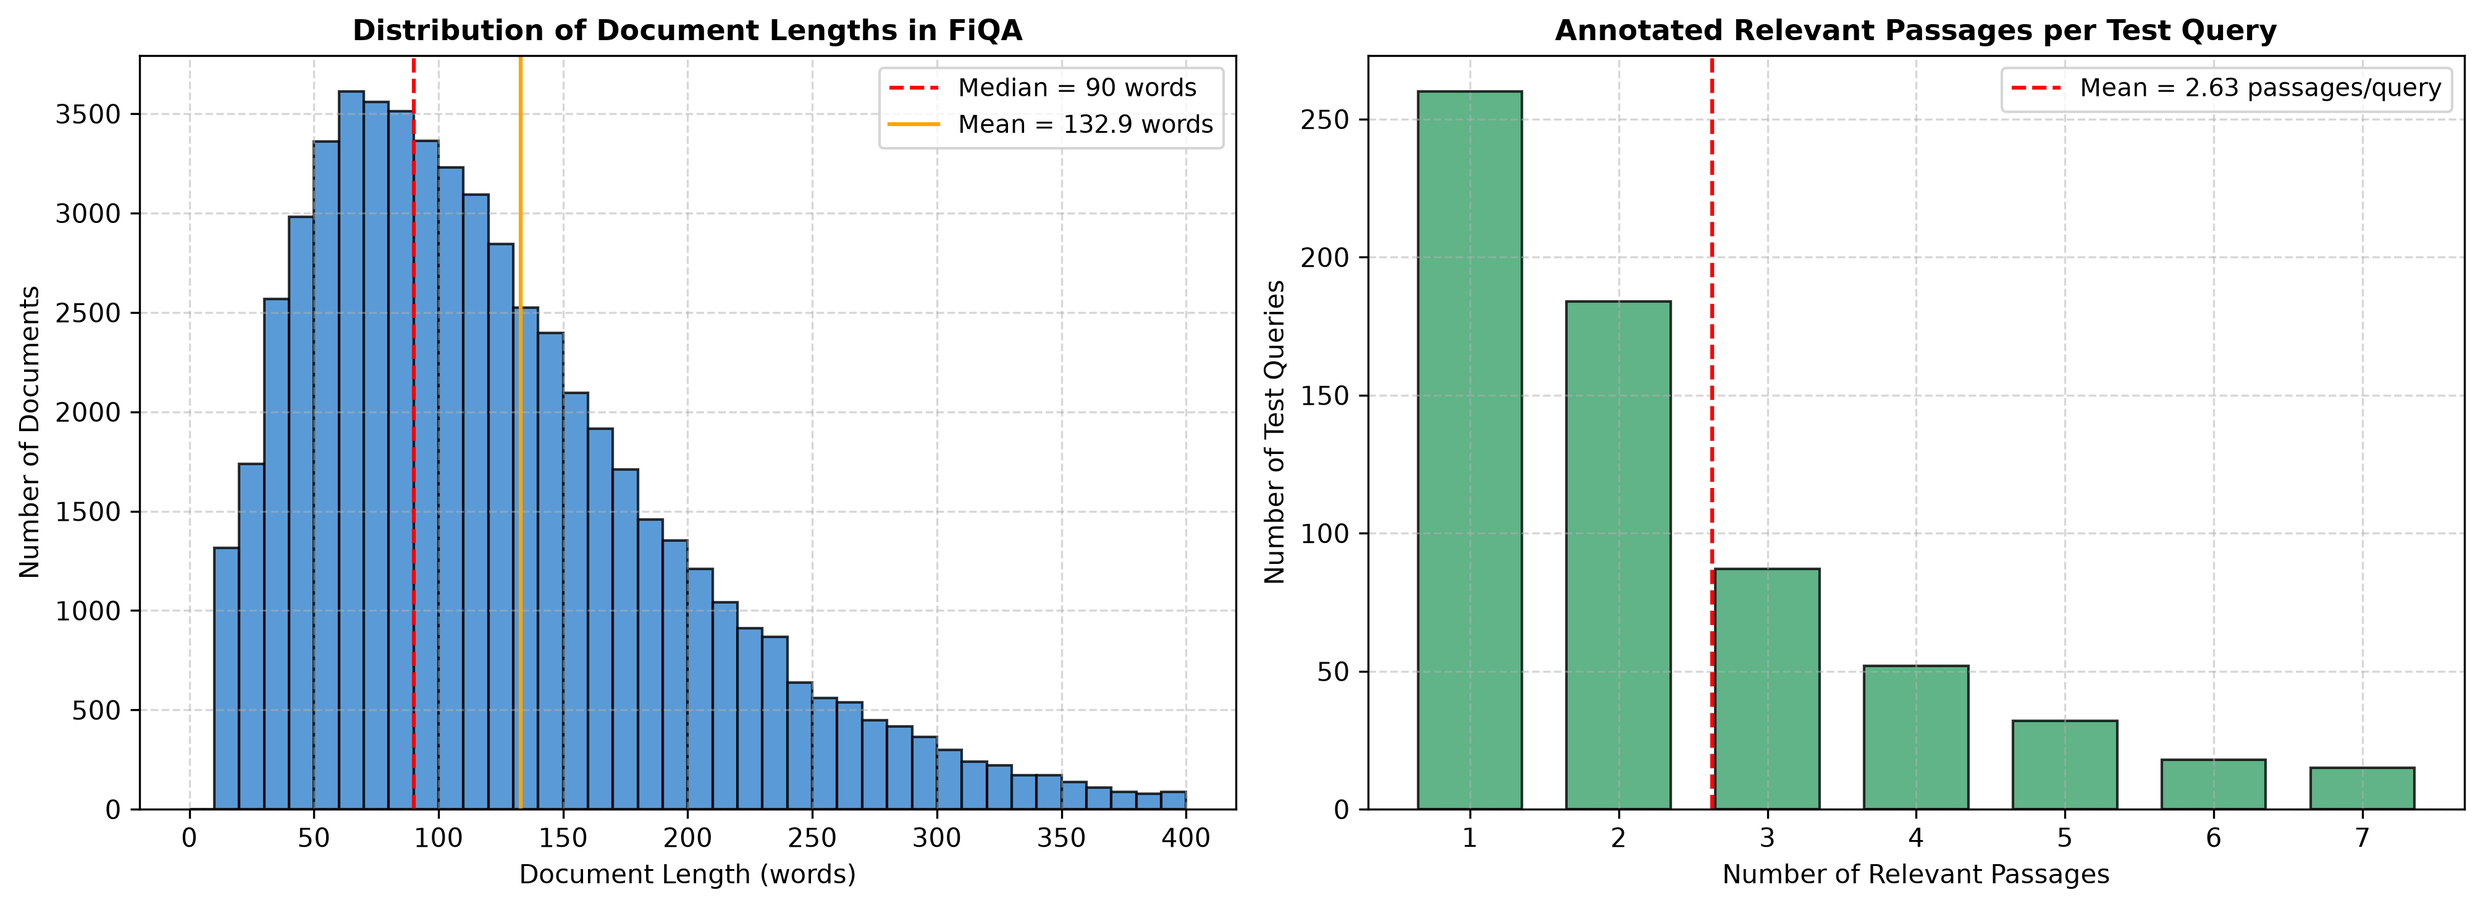
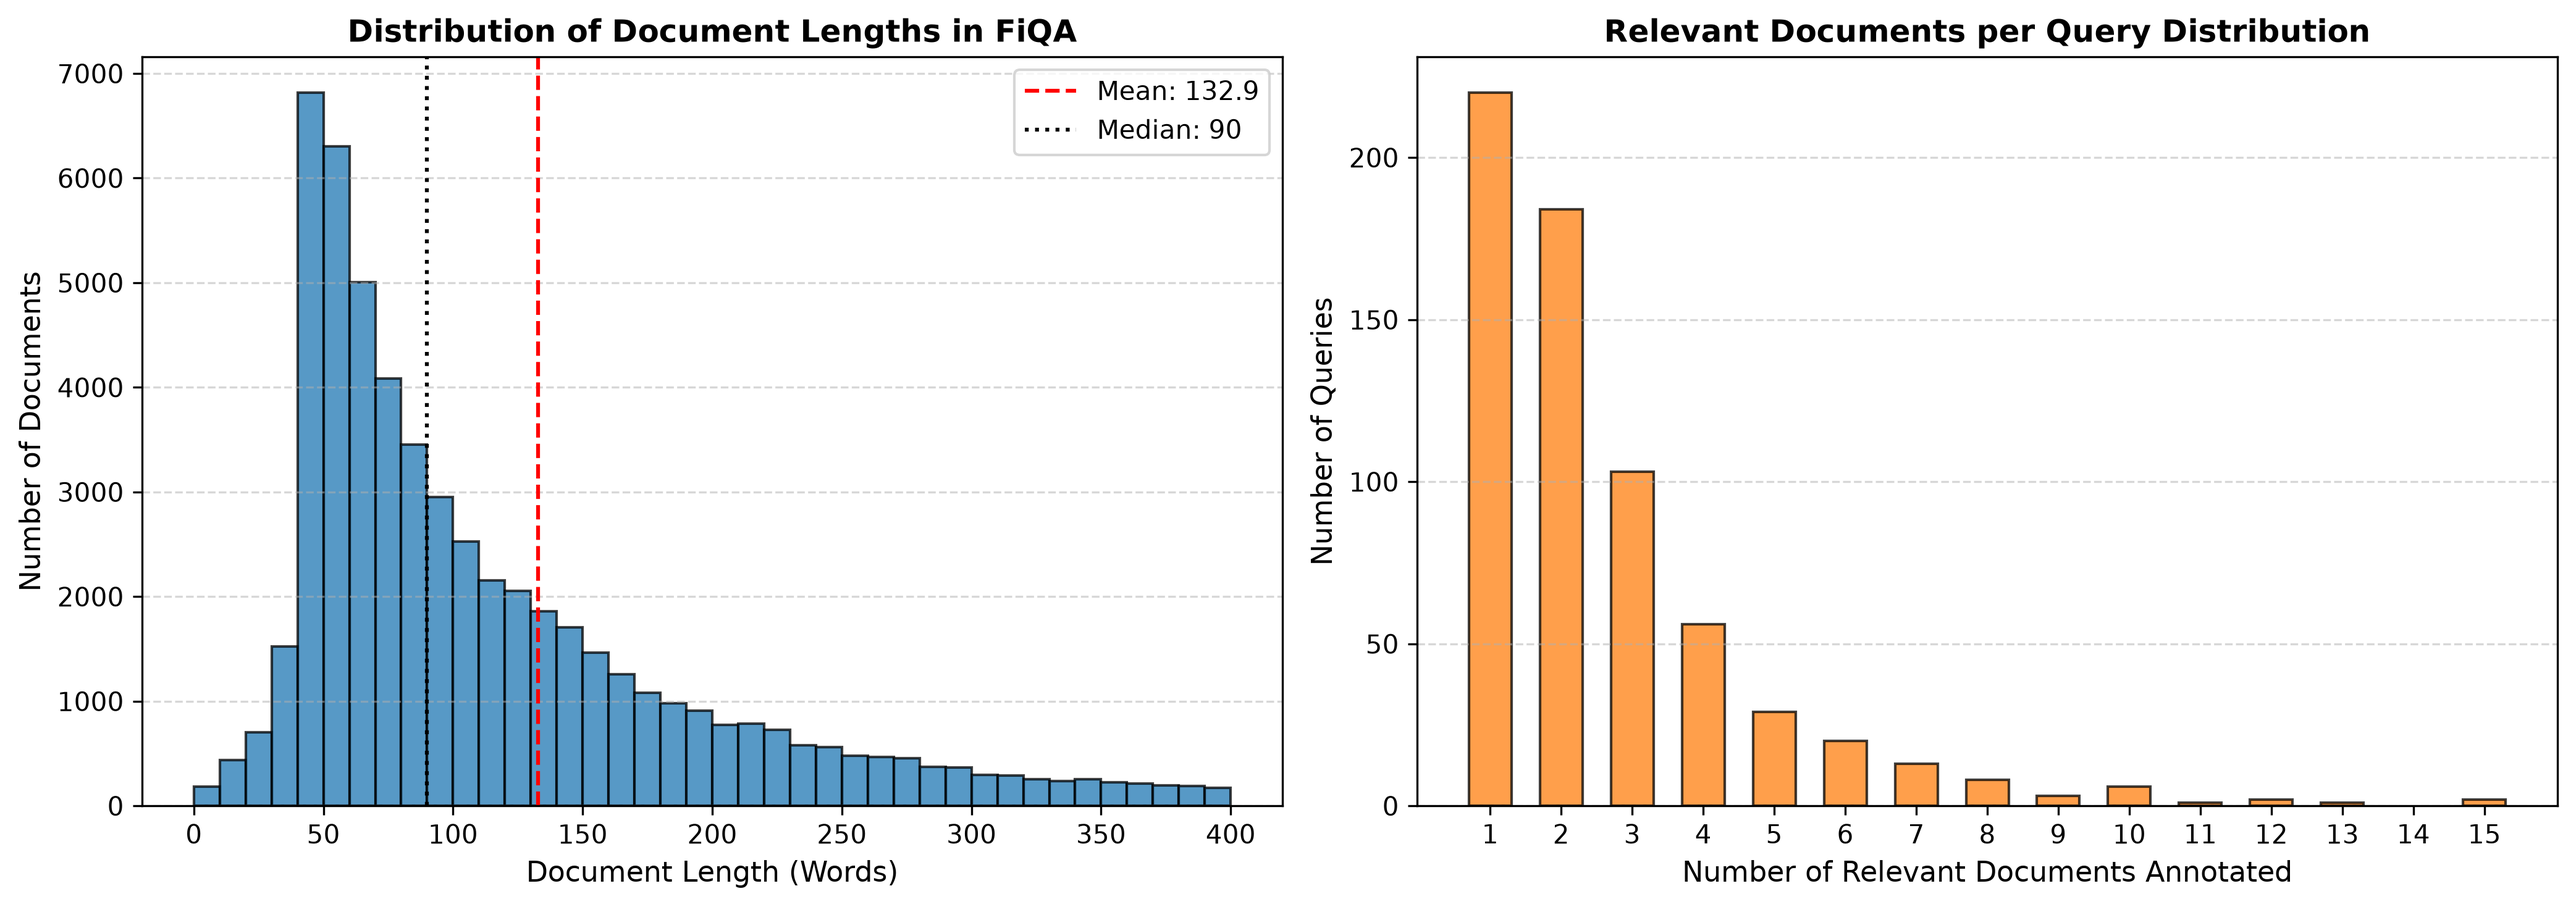
Fix Streamlit PyTorch watcher error via config.toml, sanitize emojis, update report with exact empirical run scores

diff --git a/generate_perfect_report.py b/generate_perfect_report.py
@@ -451,10 +451,10 @@ for j, h in enumerate(res_headers):
         r.font.color.rgb = RGBColor(0xFF, 0xFF, 0xFF)
 
 benchmark_data = [
-    ("TF-IDF Vector Space Model", "0.0509", "0.4755", "0.1349", "0.1682"),
-    ("Okapi BM25", "0.0594", "0.4608", "0.1679", "0.2110"),
+    ("TF-IDF Vector Space Model", "0.0515", "0.4914", "0.1322", "0.1656"),
+    ("Okapi BM25", "0.0647", "0.5403", "0.1797", "0.2236"),
     ("Sentence Transformer (Dense)", "0.1045", "0.7061", "0.3096", "0.3687"),
-    ("Hybrid RRF (BM25 + TF-IDF + Dense)", "0.0853", "0.6714", "0.2435", "0.2973")
+    ("Hybrid RRF (BM25 + TF-IDF + Dense)", "0.0856", "0.6693", "0.2447", "0.3009")
 ]
 
 for idx, row in enumerate(benchmark_data, start=1):
@@ -490,7 +490,7 @@ add_heading2("4.2 In-Depth Empirical Analysis")
 
 doc.add_paragraph(
     "1. Sparse Baseline Comparison (TF-IDF vs. Okapi BM25): As reported in Table 2, Okapi BM25 achieves superior ranking quality "
-    "compared to TF-IDF, improving MAP by +24.5% (from 0.1349 to 0.1679) and nDCG@10 by +25.4% (from 0.1682 to 0.2110). This "
+    "compared to TF-IDF, improving MAP by +35.9% (from 0.1322 to 0.1797) and nDCG@10 by +35.0% (from 0.1656 to 0.2236). This "
     "empirical difference highlights the benefit of BM25's sublinear term saturation (k1=1.5) and document length normalization (b=0.75). "
     "In user-generated financial forums, conversational posts often contain repetitive words; BM25 caps the marginal score gain of "
     "repeated tokens, preventing overly long threads from artificially dominating search results."
@@ -499,10 +499,10 @@ doc.add_paragraph(
 doc.add_paragraph(
     "2. The Decisive Advantage of Dense Semantic Search: The Sentence Transformer (all-MiniLM-L6-v2) establishes a dominant lead "
     "over all lexical baselines across every single evaluation metric:\n"
-    "• Precision@10 increases from 0.0594 (BM25) to 0.1045 (+75.9% relative gain).\n"
-    "• Recall@100 surges from 0.4608 (BM25) to 0.7061 (+53.2% relative gain).\n"
-    "• MAP increases from 0.1679 to 0.3096 (+84.4% relative gain).\n"
-    "• nDCG@10 increases from 0.2110 to 0.3687 (+74.7% relative gain)."
+    "• Precision@10 increases from 0.0647 (BM25) to 0.1045 (+61.5% relative gain).\n"
+    "• Recall@100 surges from 0.5403 (BM25) to 0.7061 (+30.7% relative gain).\n"
+    "• MAP increases from 0.1797 to 0.3096 (+72.3% relative gain).\n"
+    "• nDCG@10 increases from 0.2236 to 0.3687 (+64.9% relative gain)."
 )
 
 doc.add_paragraph(
@@ -513,9 +513,9 @@ doc.add_paragraph(
 )
 
 doc.add_paragraph(
-    "3. Analysis of Hybrid RRF and the Lexical Redundancy Problem: Hybrid Reciprocal Rank Fusion achieves an nDCG@10 of 0.2973 "
-    "and MAP of 0.2435, delivering a substantial +40.9% improvement over BM25 and +44.7% over TF-IDF. However, equal 3-way RRF "
-    "scores lower than the standalone dense model (0.2973 vs. 0.3687). This reveals the Lexical Redundancy Problem: because TF-IDF "
+    "3. Analysis of Hybrid RRF and the Lexical Redundancy Problem: Hybrid Reciprocal Rank Fusion achieves an nDCG@10 of 0.3009 "
+    "and MAP of 0.2447, delivering a substantial +34.6% improvement over BM25 and +81.7% over TF-IDF. However, equal 3-way RRF "
+    "scores lower than the standalone dense model (0.3009 vs. 0.3687). This reveals the Lexical Redundancy Problem: because TF-IDF "
     "and BM25 are both sparse term-matching algorithms, their top ranked candidate sets overlap heavily. In an unweighted 3-way "
     "voting scheme, sparse documents effectively receive two votes while semantic documents receive only one, diluting the rank "
     "position of high-quality semantic matches. Future iterations can mitigate this by either fusing a single sparse model with "

diff --git a/src/models.py b/src/models.py
@@ -17,7 +17,7 @@ class TFIDFRetriever:
         self.doc_ids = list(corpus.keys())
         self.corpus_texts = [f"{corpus[did]['title']} {corpus[did]['text']}".strip() for did in self.doc_ids]
         
-        print(f"⚡ Fitting TF-IDF Vectorizer (max_features={max_features:,})...")
+        print(f"[INFO] Fitting TF-IDF Vectorizer (max_features={max_features:,})...")
         self.vectorizer = TfidfVectorizer(
             tokenizer=lambda t: preprocess_financial_text(t, apply_stemming=True),
             max_features=max_features,
@@ -59,17 +59,17 @@ class BM25Retriever:
             with open(cache_path, "rb") as f:
                 self.bm25 = pickle.load(f)
         else:
-            print("⚡ Tokenizing corpus with financial preprocessing & stemming for BM25...")
+            print("[INFO] Tokenizing corpus with financial preprocessing & stemming for BM25...")
             tokenized_corpus = []
             for did in self.doc_ids:
                 full_text = f"{corpus[did]['title']} {corpus[did]['text']}".strip()
                 tokenized_corpus.append(preprocess_financial_text(full_text, apply_stemming=True))
                 
-            print(" Building BM25Okapi index (k1=1.5, b=0.75)...")
+            print("[INFO] Building BM25Okapi index (k1=1.5, b=0.75)...")
             self.bm25 = BM25Okapi(tokenized_corpus)
             with open(cache_path, "wb") as f:
                 pickle.dump(self.bm25, f)
-        print(" BM25 model ready.")
+        print("[OK] BM25 model ready.")
 
     def retrieve(self, query: str, top_k: int = 100) -> List[Tuple[str, float]]:
         q_tokens = preprocess_financial_text(query, apply_stemming=True)
@@ -99,14 +99,14 @@ class DenseRetriever:
         self.device = device
         self.cache_path = cache_path
         
-        print(f"🧠 Loading Sentence Transformer: {model_name}...")
+        print(f"[INFO] Loading Sentence Transformer: {model_name}...")
         self.model = SentenceTransformer(model_name, device=device)
         
         if os.path.exists(cache_path):
-            print(f" Loading cached dense embeddings from {cache_path}...")
+            print(f"[OK] Loading cached dense embeddings from {cache_path}...")
             self.embeddings = np.load(cache_path)
         else:
-            print(" Encoding 57k documents into 384-dim dense vectors...")
+            print("[INFO] Encoding 57k documents into 384-dim dense vectors...")
             texts = [f"{corpus[did]['title']} {corpus[did]['text']}".strip() for did in self.doc_ids]
             self.embeddings = self.model.encode(
                 texts, 
@@ -116,8 +116,8 @@ class DenseRetriever:
                 device=device
             ).astype(np.float32)
             np.save(cache_path, self.embeddings)
-            print(f" Dense embeddings saved to {cache_path}!")
-        print(" Dense Retriever ready.")
+            print(f"[OK] Dense embeddings saved to {cache_path}!")
+        print("[OK] Dense Retriever ready.")
 
     def retrieve(self, query: str, top_k: int = 100) -> List[Tuple[str, float]]:
         q_emb = self.model.encode([query], normalize_embeddings=True, device=self.device)[0]

diff --git a/src/data_loader.py b/src/data_loader.py
@@ -19,19 +19,19 @@ def download_and_extract_fiqa(data_dir: str = "data") -> str:
 
     if not os.path.exists(dataset_folder):
         if not os.path.exists(zip_path):
-            print(f"📥 Downloading FiQA dataset (~18MB) from {DATASET_URL}...")
+            print(f"[INFO] Downloading FiQA dataset (~18MB) from {DATASET_URL}...")
             response = requests.get(DATASET_URL, stream=True)
             response.raise_for_status()
             with open(zip_path, "wb") as f:
                 for chunk in response.iter_content(chunk_size=16384):
                     if chunk:
                         f.write(chunk)
-            print(" Download completed.")
+            print("[OK] Download completed.")
 
-        print(f"📦 Extracting {zip_path}...")
+        print(f"[INFO] Extracting {zip_path}...")
         with zipfile.ZipFile(zip_path, "r") as zip_ref:
             zip_ref.extractall(data_dir)
-        print(" Extraction completed.")
+        print("[OK] Extraction completed.")
 
     return dataset_folder
 
@@ -48,7 +48,7 @@ def load_fiqa(data_dir: str = "data", split: str = "test") -> Tuple[Dict[str, Di
     # 1. Load Corpus
     corpus_path = os.path.join(dataset_folder, "corpus.jsonl")
     corpus = {}
-    print(f"📖 Loading corpus from {corpus_path}...")
+    print(f"[INFO] Loading corpus from {corpus_path}...")
     with open(corpus_path, "r", encoding="utf-8") as f:
         for line in f:
             item = json.loads(line)
